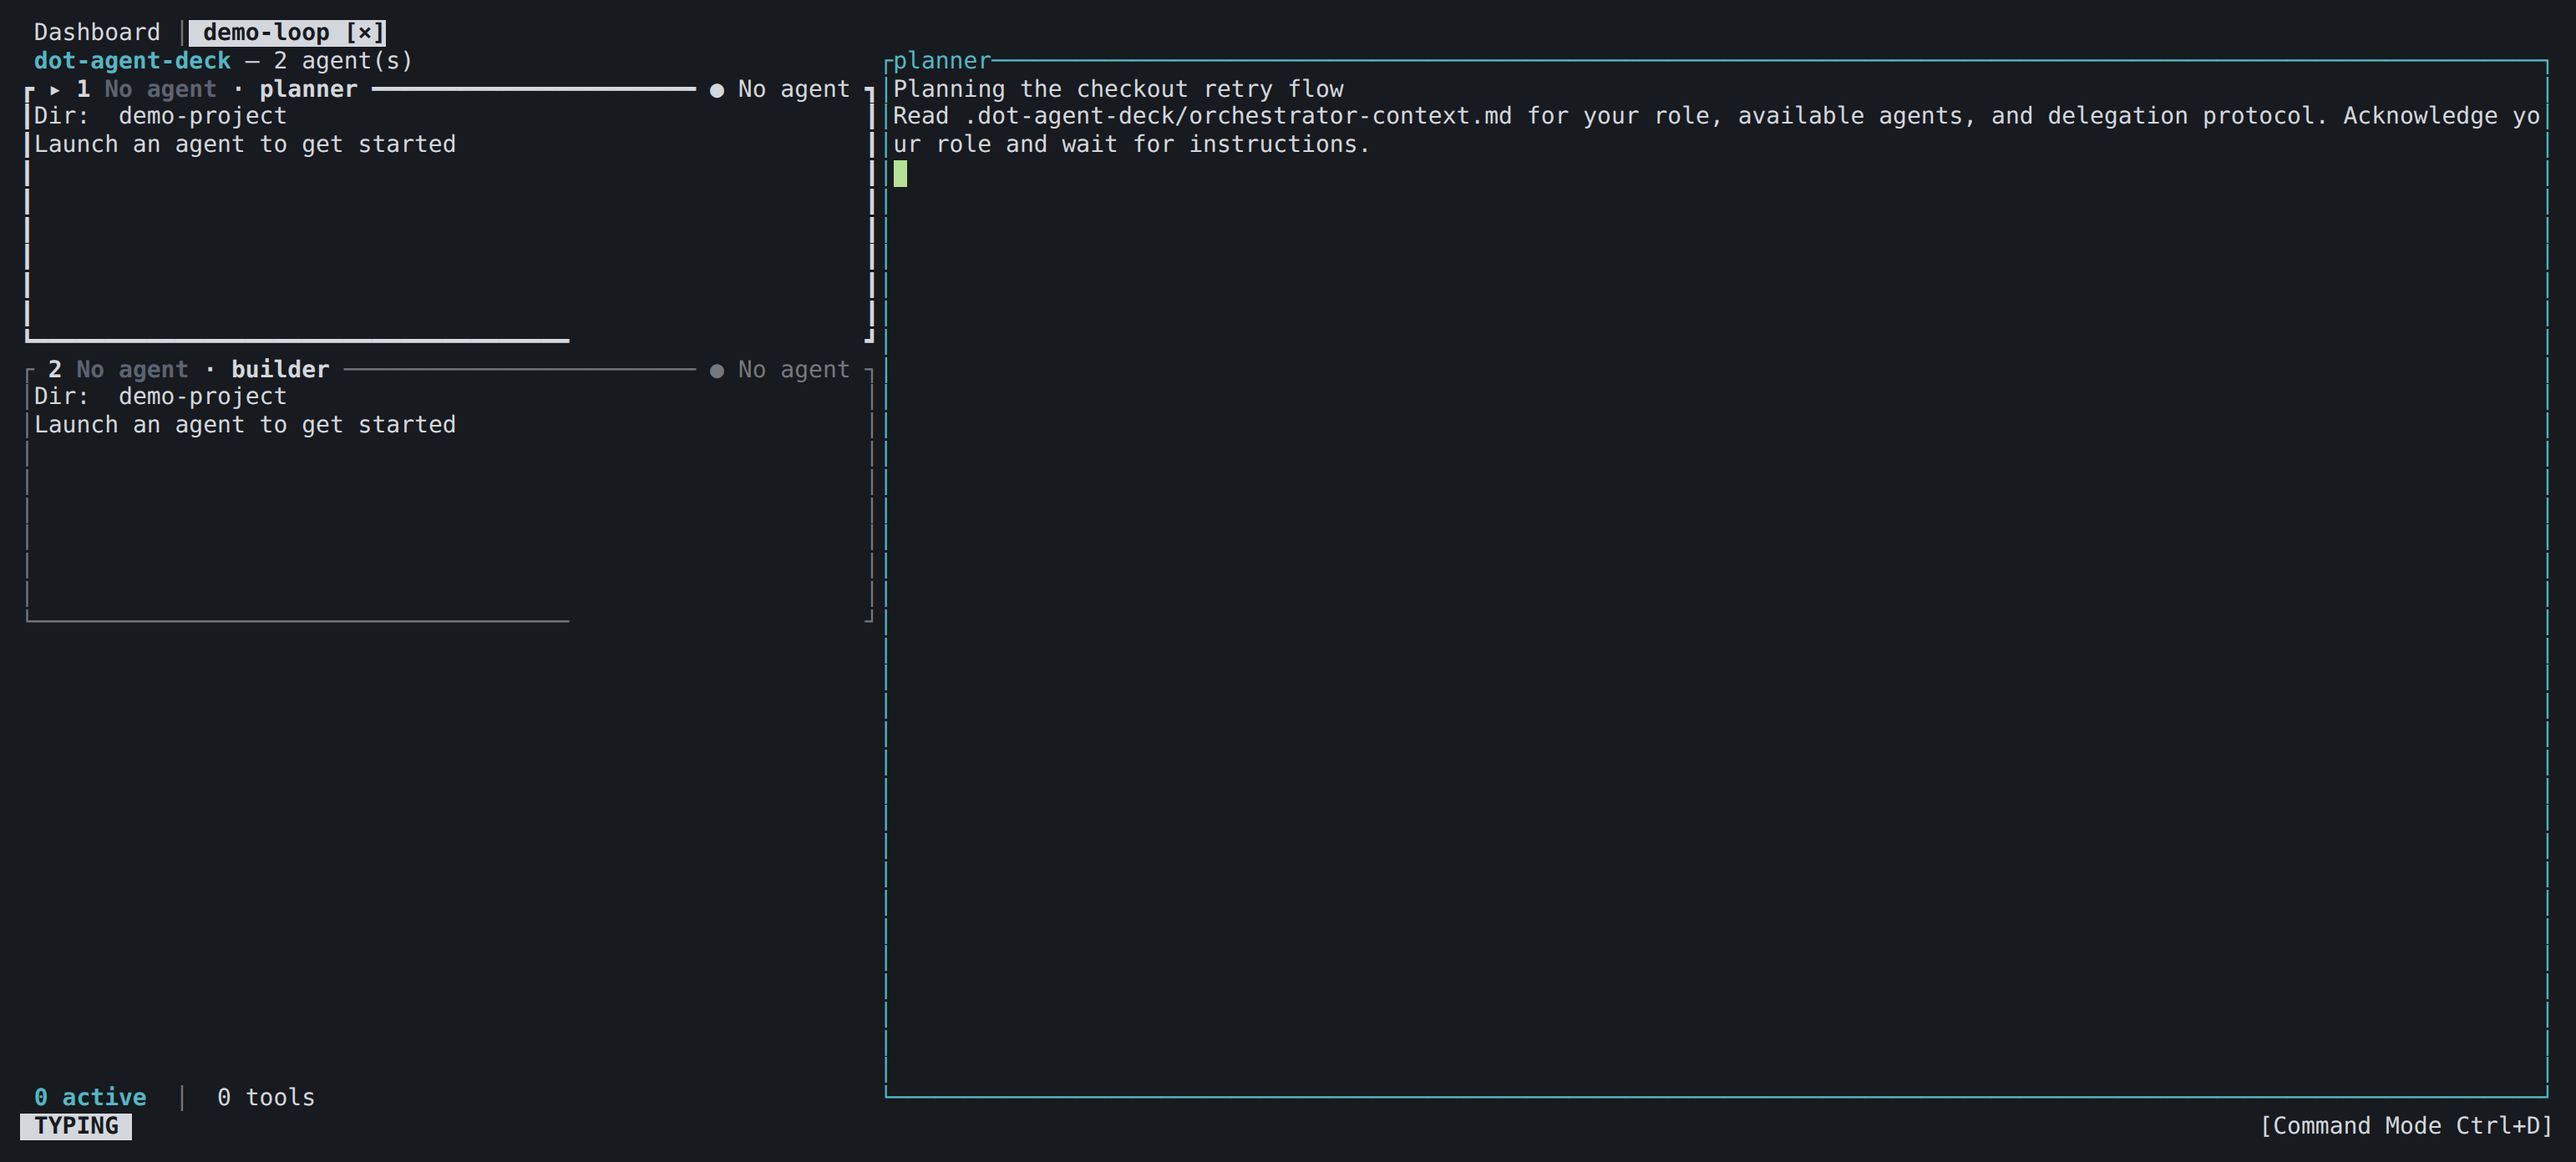
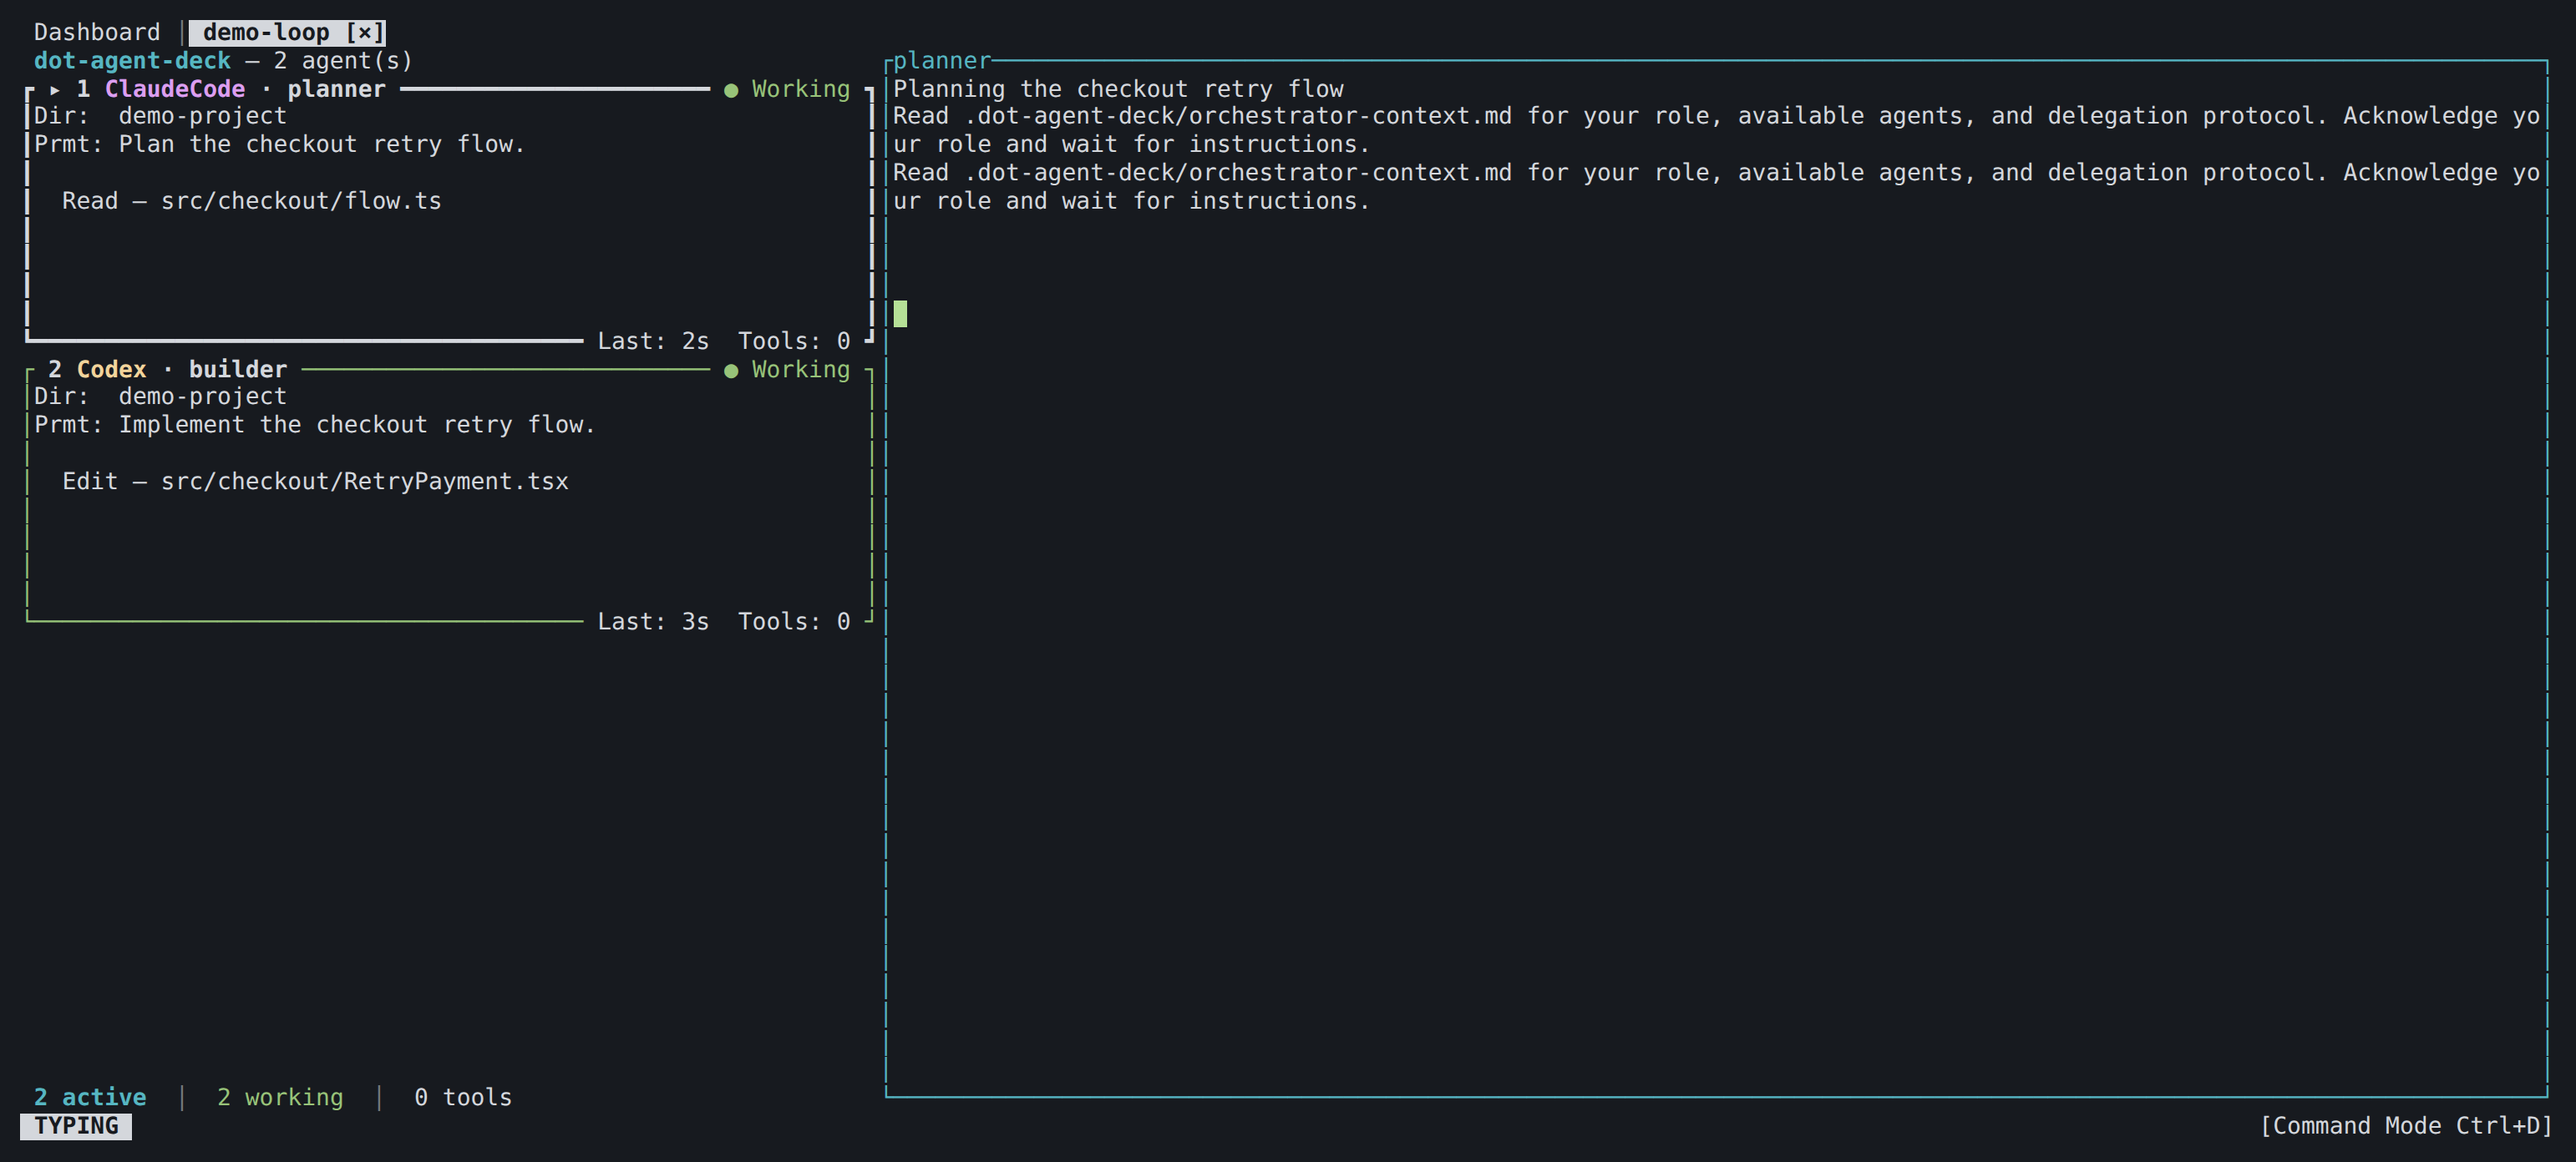
test(docs-screenshots): show active roles and all daemons

diff --git a/desktop/screenshots/desktop.shot.ts b/desktop/screenshots/desktop.shot.ts
@@ -29,6 +29,9 @@ desktopScenario("dashboard-empty", async (page) => {
 
 desktopScenario("dashboard-fleet", async (page) => {
   await overview(page, "docs-fleet");
+  await page.getByTestId("deck-selector-toggle").click();
+  await page.getByTestId("deck-selector-option-all").click();
+  await expect(page.getByTestId("deck-selector-current")).toHaveText("All daemons");
   await expect(page.getByTestId("daemon-group")).toHaveCount(2);
   await expect(page.getByTestId("overview-count-decks")).toContainText("2/2");
   await expect(page.locator(".overview-row")).toHaveCount(6);

diff --git a/tests/e2e_docs_screenshots.rs b/tests/e2e_docs_screenshots.rs
@@ -146,18 +146,6 @@ fn capture_unless(
         );
         page.replace_range(start..end, &format!("{display:<width$}"));
     }
-    if scenario == "orchestration" {
-        // Role-card ages depend on when the sandbox daemon finishes spawning.
-        // Blank just that footer text, preserving its cell count and the card
-        // borders, so the run depicts the same scene on every capture.
-        let ages = regex::Regex::new(r"Last: [0-9]+s  Tools: [0-9]+")
-            .expect("valid role-card age matcher");
-        page = ages
-            .replace_all(&page, |caps: &regex::Captures<'_>| {
-                " ".repeat(caps[0].len())
-            })
-            .into_owned();
-    }
     let dir = html_dir();
     std::fs::create_dir_all(&dir).expect("create the TUI HTML dir");
     let path = dir.join(format!("{scenario}-tui.html"));
@@ -690,13 +678,50 @@ fn docs_screenshot_new_agent() {
 }
 
 /// Scenario: Activate the project's demo-loop orchestration with two stand-in
-/// roles, then show its active tab and the two role panes.
+/// roles, then address synthetic working events to their real pane IDs. Capture
+/// its active tab only when both role cards show their work and fixed ages.
 #[test]
 #[ignore = "docs-screenshot generator: run it with `cargo docs-screenshots`"]
 fn docs_screenshot_orchestration() {
     html_dir();
+    for attempt in 1..=DASHBOARD_ATTEMPTS {
+        let scene = stage_orchestration();
+        let ready = |grid: &str| {
+            grid.contains("demo-loop [×]")
+                && grid.contains("planner")
+                && grid.contains("builder")
+                && grid.contains("Planning the checkout retry flow")
+                && grid.contains("Plan the checkout retry flow.")
+                && grid.contains("Implement the checkout retry flow.")
+                && grid.contains("src/checkout/flow.ts")
+                && grid.contains("src/checkout/RetryPayment.tsx")
+                && grid.contains("Last: 2s ")
+                && grid.contains("Last: 3s ")
+                && grid.matches("Working").count() == 2
+                && grid.matches('●').count() == 2
+                && !grid.contains("No agent")
+                && !grid.contains("Launch an agent to get started")
+                && !grid.contains("Activated orchestration")
+        };
+        let last_attempt = attempt == DASHBOARD_ATTEMPTS;
+        let missed = || !last_attempt && Utc::now().timestamp() >= scene.capture_at + 2;
+        if capture_unless(&scene.deck, "orchestration", ready, missed) {
+            return;
+        }
+        eprintln!(
+            "docs_screenshot_orchestration: attempt {attempt} of {DASHBOARD_ATTEMPTS} \
+             missed its capture second; building the scene again"
+        );
+    }
+    unreachable!("the last attempt either captures or panics");
+}
+
+/// A fresh orchestration whose role hooks are stamped for one capture second.
+fn stage_orchestration() -> DashboardScene {
     let deck = launch_fixture_with("docs-screenshots", |builder| {
-        builder.with_launch_subdir(DOCS_PROJECT_DIR)
+        builder
+            .with_launch_subdir(DOCS_PROJECT_DIR)
+            .impersonating_pane_signals()
     });
     deck.wait_for_string("No active agents");
     deck.send_keys(b"\x0e");
@@ -709,14 +734,87 @@ fn docs_screenshot_orchestration() {
     deck.send_keys(&vec![0x7f; "demo-project-orchestrator-1".len()]);
     deck.send_keys(b"demo-loop");
     deck.send_keys(b"\r");
-    capture(&deck, "orchestration", |grid| {
-        grid.contains("demo-loop [×]")
-            && grid.contains("planner")
-            && grid.contains("builder")
-            && grid.contains("Planning the checkout retry flow")
-            && !grid.contains("Activated orchestration")
-            && grid.matches('●').count() == 2
-    });
+    wait_for_record(&deck, "planner", |_| true);
+    wait_for_record(&deck, "builder", |_| true);
+
+    // A role card's last activity starts at its pane's spawn. Stamp both
+    // status events after both panes exist, on whole seconds, so their Last:
+    // labels roll over together and the ready check captures exactly one
+    // second. Rebuild the scene if that second is missed.
+    let now = Utc::now();
+    // The activation banner has a 15-second TTL. Its lifetime starts before
+    // this clock sample, so 18 seconds leaves room for its next redraw to
+    // clear it before the capture second.
+    let capture_at = now.timestamp() + 18;
+    for (role, agent_type, session, prompt, tool, detail, quiet_for_secs) in [
+        (
+            "planner",
+            "claude_code",
+            "docs-orch-planner",
+            "Plan the checkout retry flow.",
+            "Read",
+            "src/checkout/flow.ts",
+            2,
+        ),
+        (
+            "builder",
+            "codex",
+            "docs-orch-builder",
+            "Implement the checkout retry flow.",
+            "Edit",
+            "src/checkout/RetryPayment.tsx",
+            3,
+        ),
+    ] {
+        let record = wait_for_record(&deck, role, |_| true);
+        let pane_id = record
+            .pane_id_env
+            .clone()
+            .unwrap_or_else(|| panic!("{role}'s pane has no pane id"));
+        send(
+            &deck,
+            serde_json::json!({
+                "session_id": session,
+                "agent_type": agent_type,
+                "event_type": "session_start",
+                "timestamp": (now - ChronoDuration::minutes(30)).to_rfc3339(),
+                "cwd": "/home/dev/demo-project",
+                "pane_id": pane_id,
+                "agent_id": record.id,
+                "metadata": { "display_name": role },
+            }),
+        );
+        let expected_type = serde_json::Value::from(agent_type);
+        wait_for_record(&deck, role, |r| {
+            r.live.as_ref().is_some_and(|live| {
+                live.agent_type.as_ref().map(|t| serde_json::json!(t))
+                    == Some(expected_type.clone())
+            })
+        });
+        send(
+            &deck,
+            serde_json::json!({
+                "session_id": session,
+                "agent_type": agent_type,
+                "event_type": "tool_start",
+                "timestamp": chrono::DateTime::from_timestamp(capture_at - quiet_for_secs, 0)
+                    .expect("a representable instant")
+                    .to_rfc3339(),
+                "cwd": "/home/dev/demo-project",
+                "pane_id": pane_id,
+                "agent_id": record.id,
+                "user_prompt": prompt,
+                "tool_name": tool,
+                "tool_detail": detail,
+            }),
+        );
+        wait_for_record(&deck, role, |r| {
+            r.live
+                .as_ref()
+                .is_some_and(|live| live.last_user_prompt.as_deref() == Some(prompt))
+        });
+    }
+    DashboardScene { deck, capture_at }
 }
 
 /// Scenario: Open the Schedules manager over an empty dashboard with one

diff --git a/docs/develop/docs-screenshots.md b/docs/develop/docs-screenshots.md
@@ -105,6 +105,7 @@ TUI:
 - Synthetic hook events are sent one at a time, each confirmed on screen before the next, because the daemon handles each hook connection on its own task and would otherwise apply them in no fixed order. Card order and state are then the same every run.
 - The panes run stand-ins that print fixed transcripts, so a pane's content is the same on every run. `dashboard` focuses the pane it shows explicitly rather than relying on which pane was opened last.
 - The TUI's clock cannot be frozen from outside the binary, and a card's `Last:` age cannot read older than its pane, so `dashboard`'s ages are seconds and every status event is stamped on a whole second, after the last pane opened: at a chosen capture second minus the agent's age. Every label then rolls over at the same instant, and during the capture second they read exactly the agents' ages. The readiness check names those labels, so the frame is taken inside that second and never outside it. Until then the stamps are in the future and the cards read `Last: 0s`; the wait is the largest age plus about two seconds, sampled from one clock reading that also dates each agent's `session_start`. An attempt that misses the second, because staging ran past it or because no frame inside it had every status dot lit, is retried by building the **whole scene again in a fresh sandbox**, up to `DASHBOARD_ATTEMPTS` (3) times; the last attempt does not give up early and fails with the harness's timeout panic and the final grid. An attempt counts as missed once the wall clock reaches the capture second plus two, leaving a frame drawn late in the second time to arrive. It does not re-stamp the existing cards, because the events that move a card's `Last:` also add to what the card shows: a second `tool_start` draws a second tool line, and a second event carrying the prompt a second prompt line, so a re-stamped scene would not be the same image. Measured on 2026-09-26 with the first attempt forced to miss: the second attempt wrote HTML byte-identical to an unforced run's.
+- `orchestration` uses the same pane-addressed hook events, whole-second ages and fresh-sandbox retry for its planner and builder cards. Its capture second is 18 seconds after staging so the activation banner's 15-second lifetime has expired; the readiness check requires both working cards, their prompts and tools, exact `Last: 2s` and `Last: 3s` labels, and no activation banner or `No agent` placeholders.
 - Idle and waiting cards blink their status dot by drawing a space in its place. Nothing else on the dashboard draws a `●` (the transcripts are written without one), so the readiness check requires exactly one per agent, which means every dot is lit; because it runs against the frame that is written, the image never shows half a blink.
 - The command-mode banner over the focused pane (`COMMAND MODE — Ctrl+D to type`) clears on its own after a moment, and the readiness check requires it gone. The pane stays dimmed, as command mode draws it.
 - The hardware cursor is not drawn.
